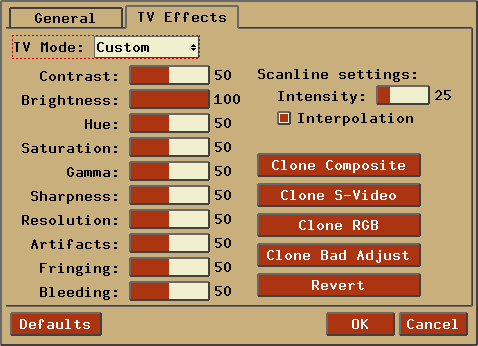
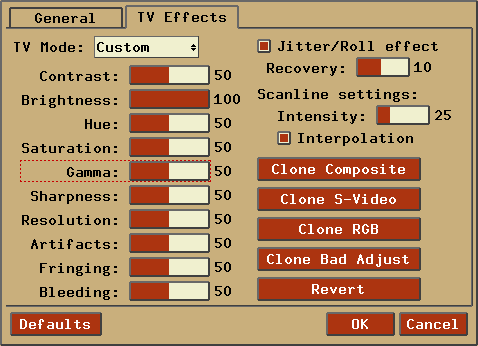
Updated webpage for 4.7.1 release.

Changed region(s): [[0.5272, 0.1156, 0.9372, 0.8671]]

diff --git a/docs/index.html b/docs/index.html
@@ -10,7 +10,7 @@
   <br><br>
   <center><h2><b>A multi-platform Atari 2600 VCS emulator</b></h2></center>
 
-  <center><h4><b>Release 4.7</b></h4></center>
+  <center><h4><b>Release 4.7.1</b></h4></center>
   <br><br>
 
   <center><h2><b>User's Guide</b></h2></center>
@@ -54,7 +54,7 @@
 
   <br><br><br>
 
-  <center><b>February 1999 - January 2016</b></center>
+  <center><b>February 1999 - February 2016</b></center>
     <center><b>The Stella Team</b></center>
   <center><b><a href="http://stella.sourceforge.net">Stella Homepage</a></b></center>
 
@@ -1450,7 +1450,7 @@
     </tr>
 
     <tr>
-      <td>Toggle TV scanline 'jitter'</td>
+      <td>Toggle TV 'jitter' effect</td>
       <td>Shift-Alt + j</td>
       <td>Shift-Cmd + j</td>
     </tr>
@@ -1855,6 +1855,17 @@
         (vs. an integral stretch which won't necessarily completely fill the screen).</td>
     </tr>
 
+    <tr>
+      <td><pre>-tv.jitter &lt;1|0&gt;</pre></td>
+      <td>Enable TV jitter/roll effect, when there are too many or too few scanlines
+        per frame.</td>
+    </tr>
+
+    <tr>
+      <td><pre>-tv.jitter_recovery &lt;1 - 20&gt;</pre></td>
+      <td>When TV jitter/roll effect is enabled, determines how long to delay recovery
+        time (recovery spread over multiple frames).</td>
+    </tr>
 
     <tr>
       <td><pre>-tv.filter &lt;1 - 6&gt;</pre></td>
@@ -2418,6 +2429,8 @@
       <td valign="top">
         <table border="1" cellpadding="4">
           <tr><th>Item</th><th>Brief description</th><th>For more information,<br>see <a href="#CommandLine">CommandLine</a></th></tr>
+          <tr><td>Jitter/Roll effect</td><td>emulate screen roll with inconsistent scanline count</td><td>-tv.jitter</td></tr>
+          <tr><td>Jitter/Roll recovery</td><td>determines recovery time for screen rolling</td><td>-tv.jitter_recovery</td></tr>
           <tr><td>TV Mode</td><td>disable TV effects, or select TV preset</td><td>-tv.filter</td></tr>
           <tr><td>Scanline Intensity</td><td>sets scanline black-level intensity</td><td>-tv.scanlines</td></tr>
           <tr><td>Scanline Interpolation</td><td>smooth/blend scanlines into image</td><td>-tv.scaninter</td></tr>

diff --git a/downloads.php b/downloads.php
@@ -15,52 +15,52 @@
 <table BORDER=0 CELLPADDING=6 WIDTH="100%">
 
 	<tr>
-		<td><b>Latest&nbsp;Release (v/ 4.7)</b></td>
+		<td><b>Latest&nbsp;Release (v/ 4.7.1)</b></td>
 		<td>&nbsp;</td>
 	</tr>
 
 	<tr>
-		<td BGCOLOR="#CCCCCC"><a href="http://prdownloads.sourceforge.net/stella/Stella-4.7-win32.exe?download">Stella-4.7-win32.exe</a></td>
+		<td BGCOLOR="#CCCCCC"><a href="http://prdownloads.sourceforge.net/stella/Stella-4.7.1-win32.exe?download">Stella-4.7.1-win32.exe</a></td>
 		<td BGCOLOR="#FFCC99">Binary installer (exe) for 32-bit Windows XP_SP3(*)/Vista/7/8/10</td>
 	</tr>
 
 	<tr>
-		<td BGCOLOR="#CCCCCC"><a href="http://prdownloads.sourceforge.net/stella/Stella-4.7-x64.exe?download">Stella-4.7-x64.exe</a></td>
+		<td BGCOLOR="#CCCCCC"><a href="http://prdownloads.sourceforge.net/stella/Stella-4.7.1-x64.exe?download">Stella-4.7.1-x64.exe</a></td>
 		<td BGCOLOR="#FFCC99">Binary installer (exe) for 64-bit Windows Vista/7/8/10</td>
 	</tr>
 
 	<tr>
-		<td BGCOLOR="#CCCCCC"><a href="http://prdownloads.sourceforge.net/stella/Stella-4.7-windows.zip?download">Stella-4.7-windows.zip</a></td>
+		<td BGCOLOR="#CCCCCC"><a href="http://prdownloads.sourceforge.net/stella/Stella-4.7.1-windows.zip?download">Stella-4.7.1-windows.zip</a></td>
 		<td BGCOLOR="#FFCC99">Binary ZIP (32-bit and 64-bit) for Windows XP_SP3(*)/Vista/7/8/10</td>
 	</tr>
 
 	<tr>
-		<td BGCOLOR="#CCCCCC"><a href="http://prdownloads.sourceforge.net/stella/Stella-4.7-macosx.dmg?download">Stella-4.7-macosx.dmg</a></td>
+		<td BGCOLOR="#CCCCCC"><a href="http://prdownloads.sourceforge.net/stella/Stella-4.7.1-macosx.dmg?download">Stella-4.7.1-macosx.dmg</a></td>
 		<td BGCOLOR="#FFCC99">Binary DMG for MacOS X (64-bit, Intel CPU/10.7+ only)</td>
 	</tr>
 
 	<tr>
-		<td BGCOLOR="#CCCCCC"><a href="http://prdownloads.sourceforge.net/stella/stella_4.7-1_i386.deb?download">stella_4.7-1_i386.deb</a></td>
+		<td BGCOLOR="#CCCCCC"><a href="http://prdownloads.sourceforge.net/stella/stella_4.7.1-1_i386.deb?download">stella_4.7.1-1_i386.deb</a></td>
 		<td BGCOLOR="#FFCC99">Binary 32-bit DEB for Ubuntu 15.10 (Wily Werewolf)</td>
 	</tr>
 
 	<tr>
-		<td BGCOLOR="#CCCCCC"><a href="http://prdownloads.sourceforge.net/stella/stella_4.7-1_amd64.deb?download">stella_4.7-1_amd64.deb</a></td>
+		<td BGCOLOR="#CCCCCC"><a href="http://prdownloads.sourceforge.net/stella/stella_4.7.1-1_amd64.deb?download">stella_4.7.1-1_amd64.deb</a></td>
 		<td BGCOLOR="#FFCC99">Binary 64-bit DEB for Ubuntu 15.10 (Wily Werewolf)</td>
 	</tr>
 
 	<tr>
-		<td BGCOLOR="#CCCCCC"><a href="http://prdownloads.sourceforge.net/stella/stella-4.7-2.i386.rpm?download">stella-4.7-2.i386.rpm</a></td>
+		<td BGCOLOR="#CCCCCC"><a href="http://prdownloads.sourceforge.net/stella/stella-4.7.1-2.i386.rpm?download">stella-4.7.1-2.i386.rpm</a></td>
 		<td BGCOLOR="#FFCC99">Binary 32-bit RPM for Linux (generated by 'alien')</td>
 	</tr>
 
 	<tr>
-		<td BGCOLOR="#CCCCCC"><a href="http://prdownloads.sourceforge.net/stella/stella-4.7-2.x86_64.rpm?download">stella-4.7-2.x86_64.rpm</a></td>
+		<td BGCOLOR="#CCCCCC"><a href="http://prdownloads.sourceforge.net/stella/stella-4.7.1-2.x86_64.rpm?download">stella-4.7.1-2.x86_64.rpm</a></td>
 		<td BGCOLOR="#FFCC99">Binary 64-bit RPM for Linux (generated by 'alien')</td>
 	</tr>
 
 	<tr>
-		<td BGCOLOR="#CCCCCC"><a href="http://prdownloads.sourceforge.net/stella/stella-4.7-src.tar.gz?download">stella-4.7-src.tar.gz</a></td>
+		<td BGCOLOR="#CCCCCC"><a href="http://prdownloads.sourceforge.net/stella/stella-4.7.1-src.tar.gz?download">stella-4.7.1-src.tar.gz</a></td>
 		<td BGCOLOR="#FFCC99">Source code tarball for all systems</td>
 	</tr>
 
@@ -75,8 +75,13 @@
 	</tr>
 
 	<tr>
-		<td BGCOLOR="#CCCCCC"><a href="http://prdownloads.sourceforge.net/stella/stella-snapshots-20150101.zip?download">stella-snapshots-20150101.zip</a></td>
+		<td BGCOLOR="#CCCCCC"><a href="http://prdownloads.sourceforge.net/stella/stella-snapshots-20160213.zip?download">stella-snapshots-20160213.zip</a></td>
 		<td BGCOLOR="#FFCC99">Snapshot files for use in ROM launcher/ROM Info Viewer</td>
+	</tr>
+
+	<tr>
+		<td BGCOLOR="#CCCCCC"><a href="http://prdownloads.sourceforge.net/stella/evdev-joystick.tar.xz?download">evdev-joystick.tar.xz</a></td>
+		<td BGCOLOR="#FFCC99">Application for calibrating Linux 'evdev' joysticks (useful to eliminate deadzone<br/>on Stelladaptor/2600-daptor devices)</td>
 	</tr>
 
 	<tr>

diff --git a/changelog.php b/changelog.php
@@ -12,6 +12,39 @@
 			<div class="content">
 
 <!---------------------------------------------------------------->
+<H4>February 13, 2016</H4>
+Stella release 4.7.1 for Linux, MacOS X and Windows is now available.
+<ul>
+<li>Improved TV 'jitter' emulation; the recovery time can now be spread
+    over multiple frame, to simulate a real TV taking multiple frames to
+    recover.  Related to this, added new commandline argument
+    'tv.jitter_recovery' to set the recovery time.  Finally, enabling
+    the jitter effect and the recovery time are now accessible through
+    the UI.  Special thanks to SpiceWare of AtariAge for the initial idea
+    and implementation.</li>
+
+<li>Fixed bug with 'Medieval Mayhem' ROMs; the paddle range was set too
+    low, and as a result the number of players couldn't be selected.</li>
+
+<li>Fixed bug when using more than two input controllers with the same
+    name; each controller after the second one was named the same as the
+    second one.  This caused the joystick mappings to be lost, since there
+    was only information about two controllers being saved.</li>
+
+<li>Indirectly fixed issues with Stelladaptor/2600-daptor devices and
+    paddles having too large of a deadzone in Linux.  Currently, this
+    involves running an external application to set the deadzone,
+    since SDL2 does not yet expose this information.  The program is
+    called 'evdev-joystick', and will be released separately from Stella.</li>
+
+<li>Updated internal ROM properties database to ROM-Hunter version 11
+    (thanks go to RomHunter for his tireless research in this area).
+    Related to this, updated the snapshot collection.</li>
+</ul>
+
+-Have fun!
+
+
 <H4>January 25, 2016</H4>
 Stella release 4.7 for Linux, MacOS X and Windows is now available.
 <ul>
@@ -51,10 +84,7 @@ Stella release 4.7 for Linux, MacOS X and Windows is now available.
 <li>Added more C++11 updates all over the codebase, and ran Stella
     through Coverity for the first time.  I'm proud to say that Stella
     now has a 0.00 defect rate!</li>
-
 </ul>
-
--Have fun!
 
 
 <H4>October 28, 2015</H4>

diff --git a/faq.php b/faq.php
@@ -159,6 +159,16 @@ and is beyond the scope of this FAQ.</p>
 
 <br>
 
+<h3>There seems to be a 'deadzone' when using a Stelladaptor/2600-daptor(II) and
+real paddles in certain games when using Stella in Linux.</h3>
+<p>This problem is caused by SDL2 using 'evdev' joysticks by default, but not
+having the ability to actually change the deadzone.  An external application
+has been developed, located at <a href="http://prdownloads.sourceforge.net/stella/evdev-joystick.tar.xz?download">evdev-joystick.tar.xz</a>,
+which will let you set the deadzone to 0 and have smoother paddle movement.
+Download this application, decompress it, and follow the included instructions.</p>
+
+<br>
+
 <h3>I'm experiencing sound issues, and the emulation doesn't sound authentic
 compared to a real system.</h3>
 <p>Always make sure you try setting the sound 'fragment size' to 512 bytes

diff --git a/footer.php b/footer.php
@@ -2,4 +2,4 @@
 <a href="http://www.bradfordmott.com">Bradford W. Mott</a>, 
 <a href="http://minbar.org">Stephen Anthony</a> and 
 <a href="theteam.php">The Stella Team</a>
-<br/>	Site Updated February 6, 2016</p>
+<br/>	Site Updated February 13, 2016</p>
